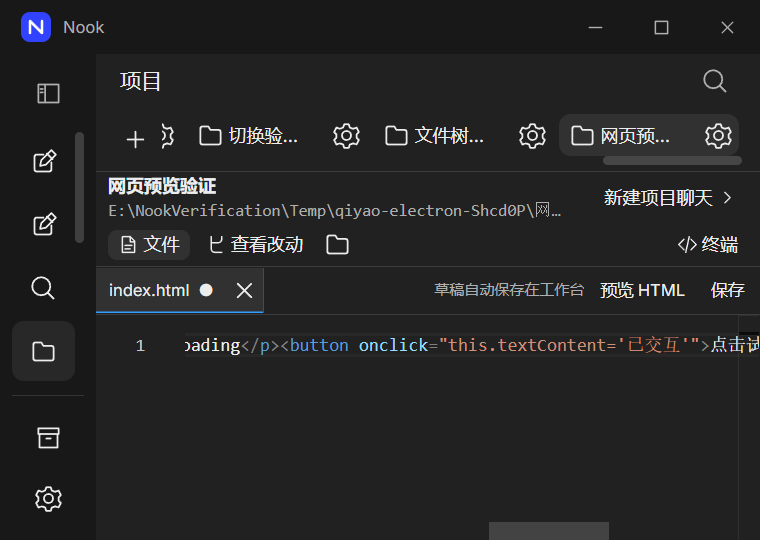
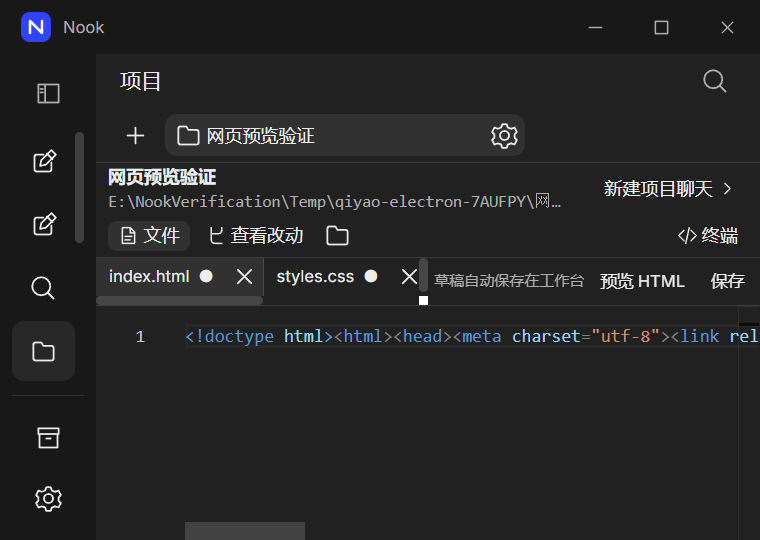
feat: 网页预览同时采用关联文件的未保存草稿

diff --git a/verification/project-preview.test.ts b/verification/project-preview.test.ts
@@ -37,6 +37,33 @@ describe('offline project preview resources', () => {
     }
   });
 
+  it('snapshots related unsaved text including empty files without changing disk or exposing later edits', async () => {
+    const root = await directory(); await mkdir(join(root, '页面'));
+    await writeFile(join(root, '页面', 'styles.css'), 'DISK_CSS');
+    const drafts = [{ path: '页面/styles.css', text: '' }, { path: '页面/app.mjs', text: 'export const text = "草稿😀";' }, { path: '页面/data.json', text: '{"value":7}' }, { path: '页面/icon.svg', text: '<svg />' }];
+    const source = await ProjectPreviewSource.create(root, { path: '页面/index.html', text: '<script type="module" src="app.mjs"></script>', drafts }, id);
+    drafts[1].text = 'LATER_EDIT';
+    expect(await (await request(source, '页面/styles.css')).text()).toBe('');
+    expect(await (await request(source, '页面/app.mjs')).text()).toBe('export const text = "草稿😀";');
+    expect(await (await request(source, '页面/data.json')).json()).toEqual({ value: 7 });
+    expect((await request(source, '页面/icon.svg')).headers.get('Content-Type')).toBe('image/svg+xml');
+    expect(await (await request(source, '页面/app.mjs', 'HEAD')).text()).toBe('');
+    expect(await readFile(join(root, '页面', 'styles.css'), 'utf8')).toBe('DISK_CSS');
+    await expect(readFile(join(root, '页面', 'app.mjs'))).rejects.toMatchObject({ code: 'ENOENT' });
+  });
+
+  it('rejects ambiguous, hidden, outside, unsupported and oversized related drafts', async () => {
+    const root = await directory();
+    for (const drafts of [
+      [{ path: 'index.html', text: '' }],
+      [{ path: 'a.js', text: '' }, { path: 'a.js', text: 'duplicate' }],
+      ...['../outside.js', '.private/a.js', 'missing/a.js', 'a.png', 'folder//a.js', 'a\\b.js'].map(path => [{ path, text: '' }]),
+      Array.from({ length: 33 }, (_, index) => ({ path: `${index}.js`, text: '' })),
+      [{ path: 'large.js', text: 'x'.repeat(256_001) }],
+      Array.from({ length: 8 }, (_, index) => ({ path: `${index}.js`, text: 'x'.repeat(256_000) })),
+    ]) await expect(ProjectPreviewSource.create(root, { path: 'index.html', text: '', drafts }, id)).rejects.toThrow();
+  });
+
   it.each(['../outside.html', '/index.html', 'C:/index.html', '.private/index.html', 'a\\b.html', 'index.txt', 'folder//index.html'])('rejects an invalid entry %s', async path => {
     const root = await directory(); await expect(ProjectPreviewSource.create(root, { path, text: '' }, id)).rejects.toThrow();
   });
@@ -67,5 +94,7 @@ describe('offline project preview resources', () => {
     await expect(ProjectPreviewSource.create(root, { path: 'escape/index.html', text: '' }, id)).rejects.toThrow();
     await mkdir(join(root, '.private')); await writeFile(join(root, '.private', 'secret.js'), 'PRIVATE'); await symlink(join(root, '.private'), join(root, 'alias'), 'junction');
     expect((await request(source, 'alias/secret.js')).status).toBe(404);
+    for (const path of ['escape/secret.js', 'alias/secret.js']) await expect(ProjectPreviewSource.create(root, { path: 'index.html', text: '', drafts: [{ path, text: 'UNSAVED' }] }, id)).rejects.toThrow();
+    await expect(ProjectPreviewSource.create(root, { path: 'alias/index.html', text: '' }, id)).rejects.toThrow();
   });
 });

diff --git a/desktop/services/project-preview.ts b/desktop/services/project-preview.ts
@@ -17,16 +17,24 @@ function allowedPath(path: string): boolean {
     && path.split('/').every(part => Boolean(part) && !part.startsWith('.')) && Boolean(types[extname(path).toLowerCase()]);
 }
 
-/** A read-only, offline project origin. The main document comes from the current editor draft. */
+/** A read-only, offline project origin with an immutable snapshot of unsaved text files. */
 export class ProjectPreviewSource {
-  private constructor(readonly origin: string, readonly path: string, private readonly root: string, private readonly text: string) {}
+  private constructor(readonly origin: string, readonly path: string, private readonly root: string, private readonly drafts: ReadonlyMap<string, string>) {}
 
   static async create(root: string, raw: unknown, id: string): Promise<ProjectPreviewSource> {
     const input = projectPreviewSchema.parse(raw);
     if (!/^[a-f0-9-]{36}$/.test(id) || !allowedPath(input.path)) throw new Error('Choose a relative HTML file inside the project.');
     const actualRoot = await realpath(root);
-    await writableProjectPath(actualRoot, input.path);
-    return new ProjectPreviewSource(`nook-preview://${id}`, input.path, actualRoot, input.text);
+    const entry = await writableProjectPath(actualRoot, input.path);
+    if (!allowedPath(relative(actualRoot, entry).split(sep).join('/'))) throw new Error('Preview drafts must remain inside the visible project files.');
+    const drafts = new Map([[input.path, input.text]]);
+    for (const draft of input.drafts ?? []) {
+      if (!allowedPath(draft.path) || drafts.has(draft.path)) throw new Error('Preview draft paths must be unique project files.');
+      const target = await writableProjectPath(actualRoot, draft.path);
+      if (!allowedPath(relative(actualRoot, target).split(sep).join('/'))) throw new Error('Preview drafts must remain inside the visible project files.');
+      drafts.set(draft.path, draft.text);
+    }
+    return new ProjectPreviewSource(`nook-preview://${id}`, input.path, actualRoot, drafts);
   }
 
   get url(): string { return `${this.origin}/${this.path.split('/').map(encodeURIComponent).join('/')}`; }
@@ -39,7 +47,7 @@ export class ProjectPreviewSource {
       const path = decodeURIComponent(url.pathname.slice(1));
       if (!allowedPath(path)) throw new Error();
       let bytes: Uint8Array<ArrayBuffer>;
-      if (path === this.path) bytes = new TextEncoder().encode(this.text);
+      if (this.drafts.has(path)) bytes = new TextEncoder().encode(this.drafts.get(path)!);
       else {
         const target = await scopedPath(this.root, path);
         if (!allowedPath(relative(this.root, target).split(sep).join('/'))) throw new Error();

diff --git a/workbench/components/project-editor.tsx b/workbench/components/project-editor.tsx
@@ -5,6 +5,7 @@ import { Button, Empty, Field, IconButton, Input, Modal } from './controls';
 import { CodeDiff, CodeEditor } from './code-editor';
 import { persistEditorDraft, registerEditorDrafts } from './editor-drafts';
 import { ProjectExplorer } from './project-explorer';
+import { previewTextPattern } from '../../contracts/project-preview';
 
 type Props = { project: Project; drafts: EditorDraft[]; files: boolean; report: (error: unknown) => void; onSave: () => void };
 export function ProjectEditor({ project, drafts, files, report, onSave }: Props) {
@@ -46,7 +47,7 @@ export function ProjectEditor({ project, drafts, files, report, onSave }: Props)
   async function preview() {
     if (!tab || previewing) return;
     setPreviewing(true);
-    try { await window.qiyao.previewProject(project.id, { path: tab.path, text: tab.text }); }
+    try { await window.qiyao.previewProject(project.id, { path: tab.path, text: tab.text, drafts: tabsRef.current.filter(item => item.path !== tab.path && previewTextPattern.test(item.path) && (item.text !== item.baseText || item.baseSha256 === null)).map(({ path, text }) => ({ path, text })) }); }
     catch (error) { report(error); }
     finally { setPreviewing(false); }
   }

diff --git a/contracts/project-preview.ts b/contracts/project-preview.ts
@@ -1,7 +1,10 @@
 import { z } from 'zod';
 
+export const previewTextPattern = /\.(?:html?|css|m?js|json|svg)$/i;
+const previewDraftSchema = z.object({ path: z.string().min(1).max(4096).regex(previewTextPattern), text: z.string().max(256_000) }).strict();
 export const projectPreviewSchema = z.object({
   path: z.string().min(1).max(4096).refine(path => /\.html?$/i.test(path), 'Choose an HTML file to preview.'),
   text: z.string().max(256_000),
-}).strict();
+  drafts: z.array(previewDraftSchema).max(32, 'Preview supports up to 32 related drafts.').optional(),
+}).strict().refine(input => input.text.length + (input.drafts ?? []).reduce((total, draft) => total + draft.text.length, 0) <= 2_000_000, { message: 'The combined preview drafts are too large.' });
 export type ProjectPreviewInput = z.infer<typeof projectPreviewSchema>;

diff --git a/docs/PROJECT-PREVIEW.md b/docs/PROJECT-PREVIEW.md
@@ -2,7 +2,7 @@
 
 在项目编辑器打开 `.html` 或 `.htm` 文件后，点击“预览 HTML”，可在独立窗口运行当前编辑草稿。无需先覆盖磁盘文件；清空后的草稿会显示空白页面，不会偷偷回退到原文件。
 
-预览支持浏览器原生 HTML、CSS、JavaScript 和 JavaScript 模块。相对路径以该 HTML 所在目录为基准，根路径以选中的项目目录为基准；CSS、JS、JSON、图片和网页字体从项目磁盘文件读取。其他标签里的未保存改动不会自动替换这些依赖文件。每项资源上限为 8 MiB，HTML 沿用编辑器的 256,000 字符上限。
+预览支持浏览器原生 HTML、CSS、JavaScript 和 JavaScript 模块。相对路径以该 HTML 所在目录为基准，根路径以选中的项目目录为基准。当前源码会同时快照其他打开标签中尚未保存的 HTML、CSS、JS／MJS、JSON 和 SVG，空草稿也会覆盖对应的磁盘版本；图片、字体及没有改动的文件继续从项目读取。每次最多带入 32 个关联草稿，各文件沿用 256,000 字符上限，合计最多 2,000,000 字符；磁盘资源上限为 8 MiB。此多文件改动已通过专项验证，现有分发候选仍是单文件草稿实现。
 
 编辑后再次点击预览，会关闭旧窗口并打开新内容。每次预览使用新的临时会话，页面存储不会跨预览保留；关闭、移除项目、更改项目目录、恢复工作台或退出时会清理预览。草稿仍由原有编辑器保存机制管理。
 
@@ -11,6 +11,10 @@
 需要开发服务器、远端 API、CDN、npm 构建、React／JSX 或 TypeScript 编译的项目，仍须使用自己的构建与运行流程。通用生成产物编辑、可停靠预览面板、浏览器导航和文档版式预览仍在后续范围内。
 
 ## 验证
+
+最新多文件改动通过类型、构建、19 项资源／窗口测试及实际桌面五组专项，正常退出 3781ms。实际编辑 HTML、CSS、JavaScript 和 JSON 后，预览使用各自草稿，磁盘文件保持原文；明暗／窄窗 150% 截图已检查，外部 HTTP 请求为零。两次测试准备／清理失败及修正保留于[多文件验证记录](../verification/preview-drafts-review-result.json)。这不代表新版完整回归、分发或托管验证已完成。
+
+以下为此前单文件实现的验证历史：
 
 资源与窗口生命周期的 17 项专项测试，以及全量 798 项组件测试通过。实际 Electron 专项的 5 组检查覆盖当前草稿、项目内 CSS／脚本／JSON、脚本交互、外部 HTTP 拦截、隐藏文件与工作台来源隔离、独立存储、空草稿、关闭与项目移除，以及浅色／深色最小窗口 150% 缩放。该专项正常退出，原项目文件未改变，见[运行记录](../verification/project-preview-result.json)。发布策略拒绝缺失、部分通过或发生外部 HTTP 请求的预览记录，并要求完整桌面套件包含记忆和预览检查。
 
